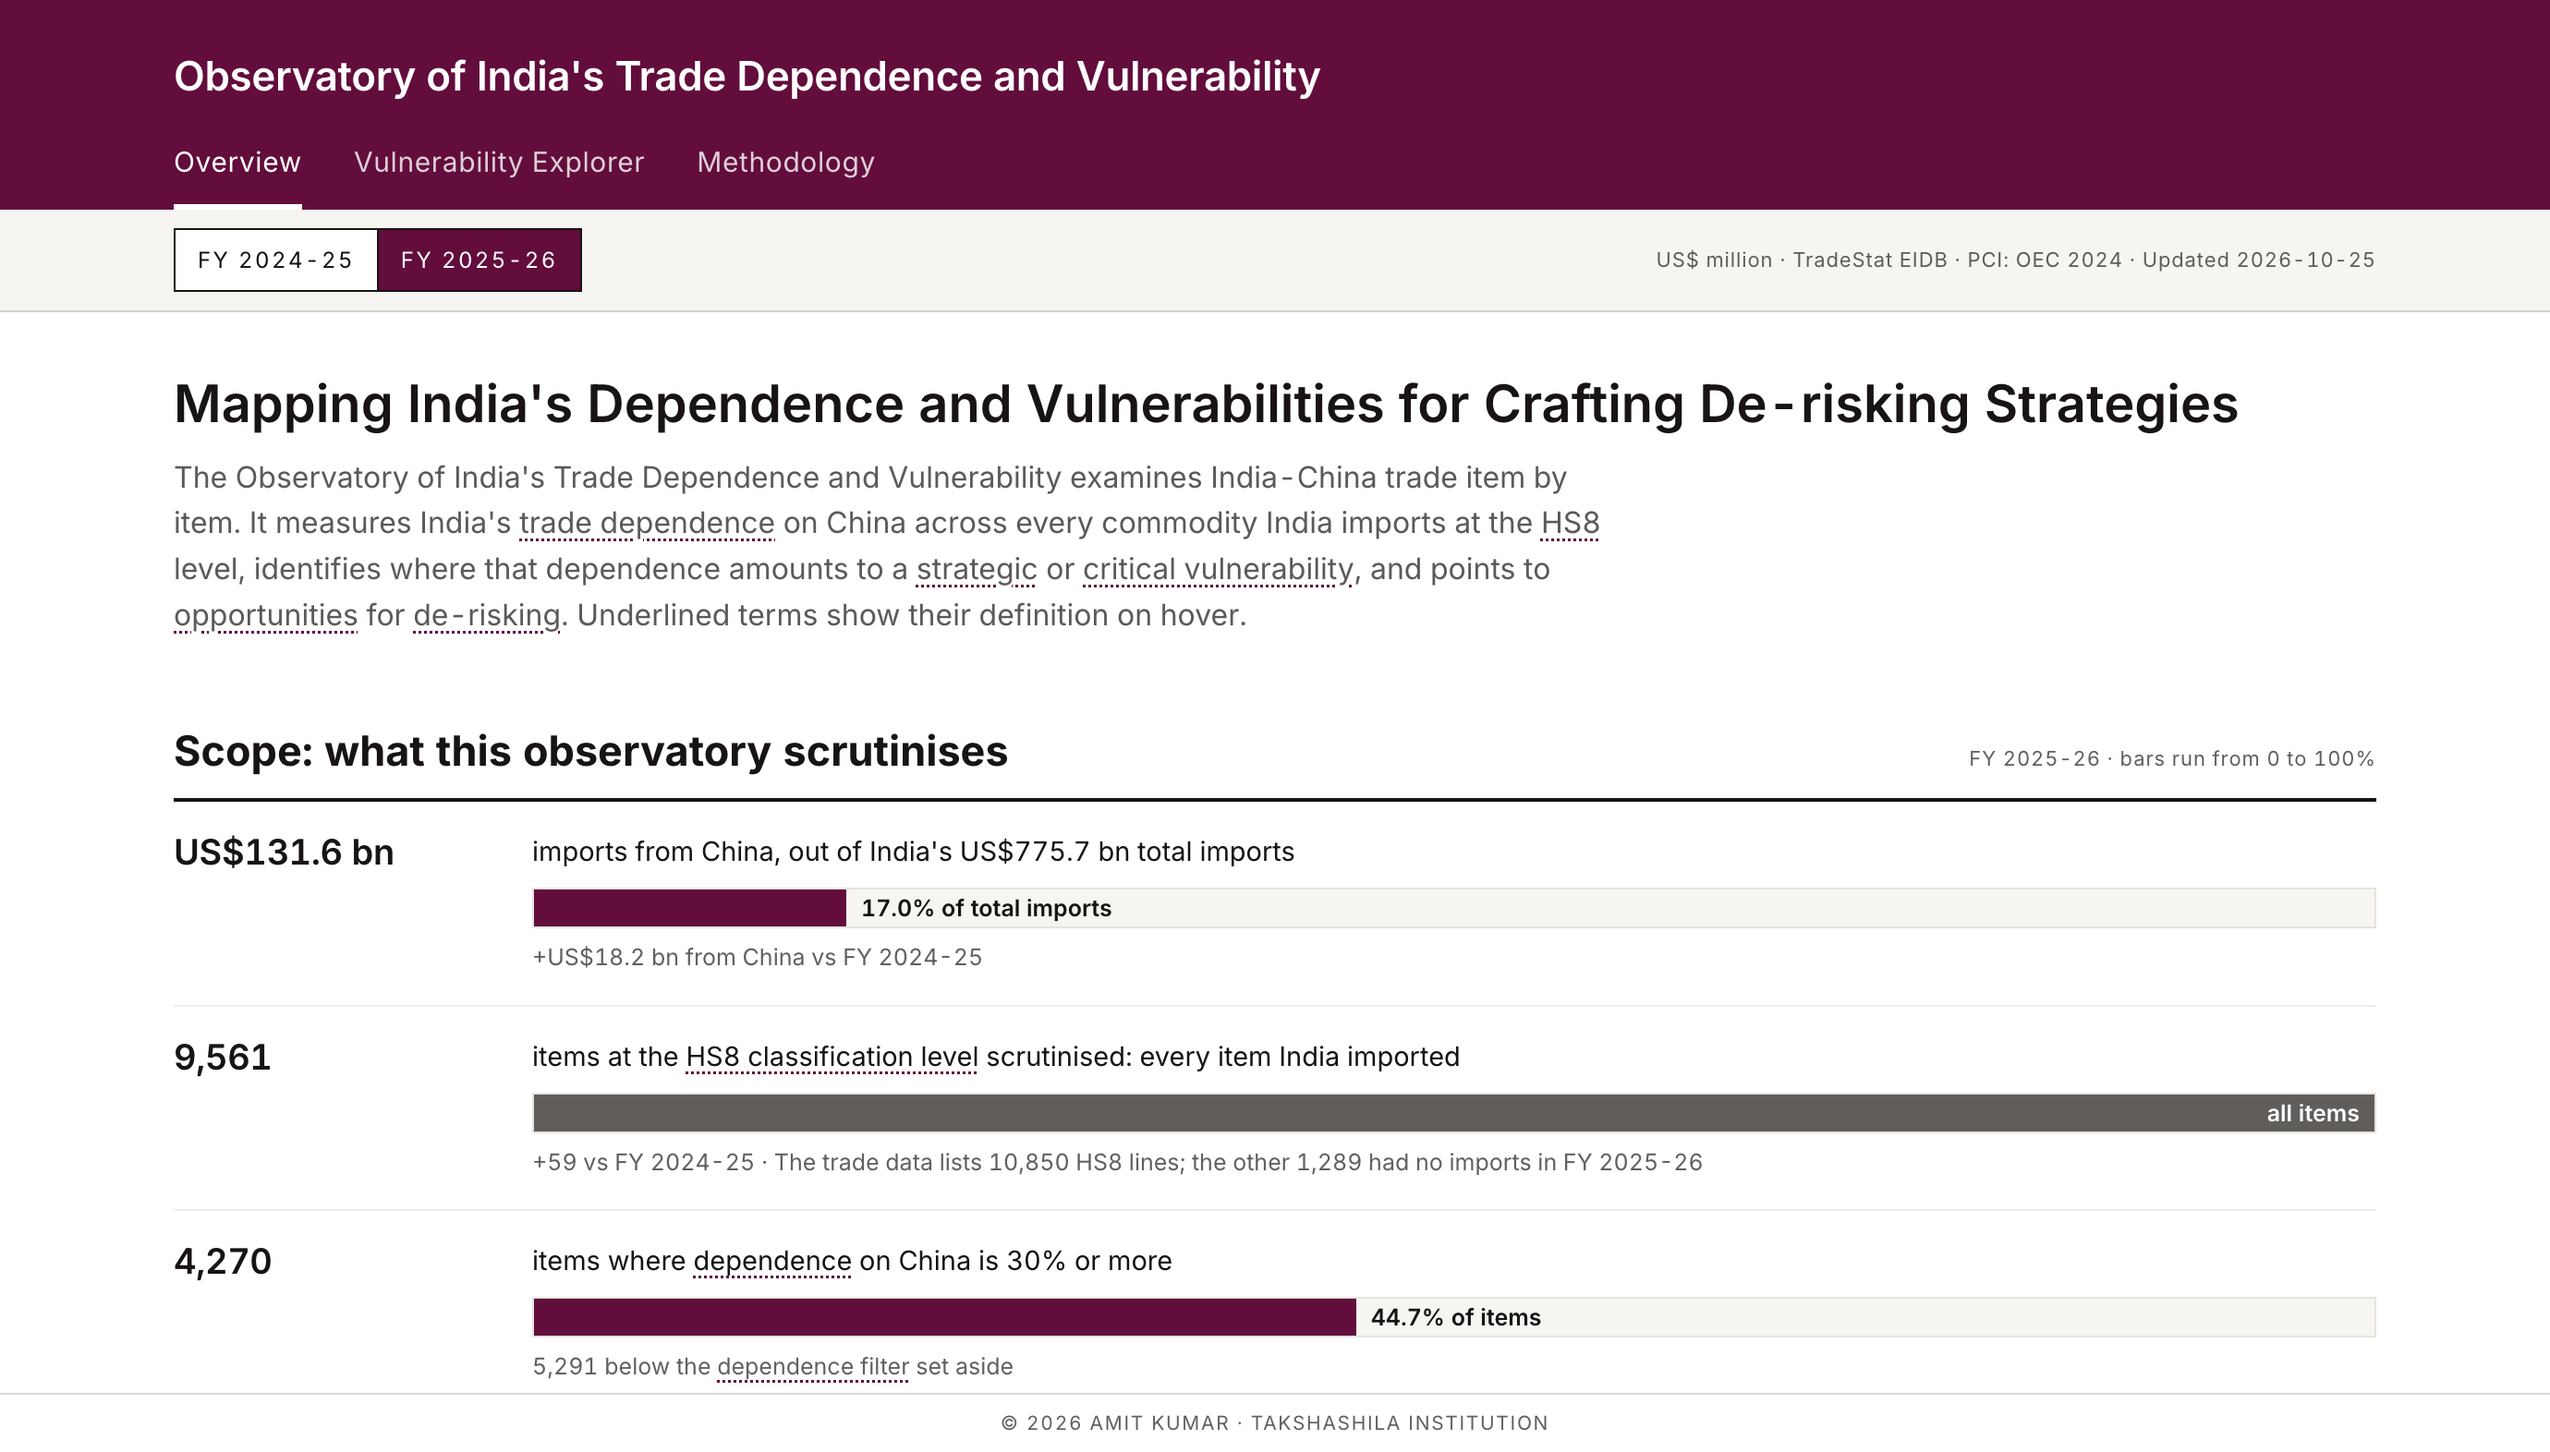
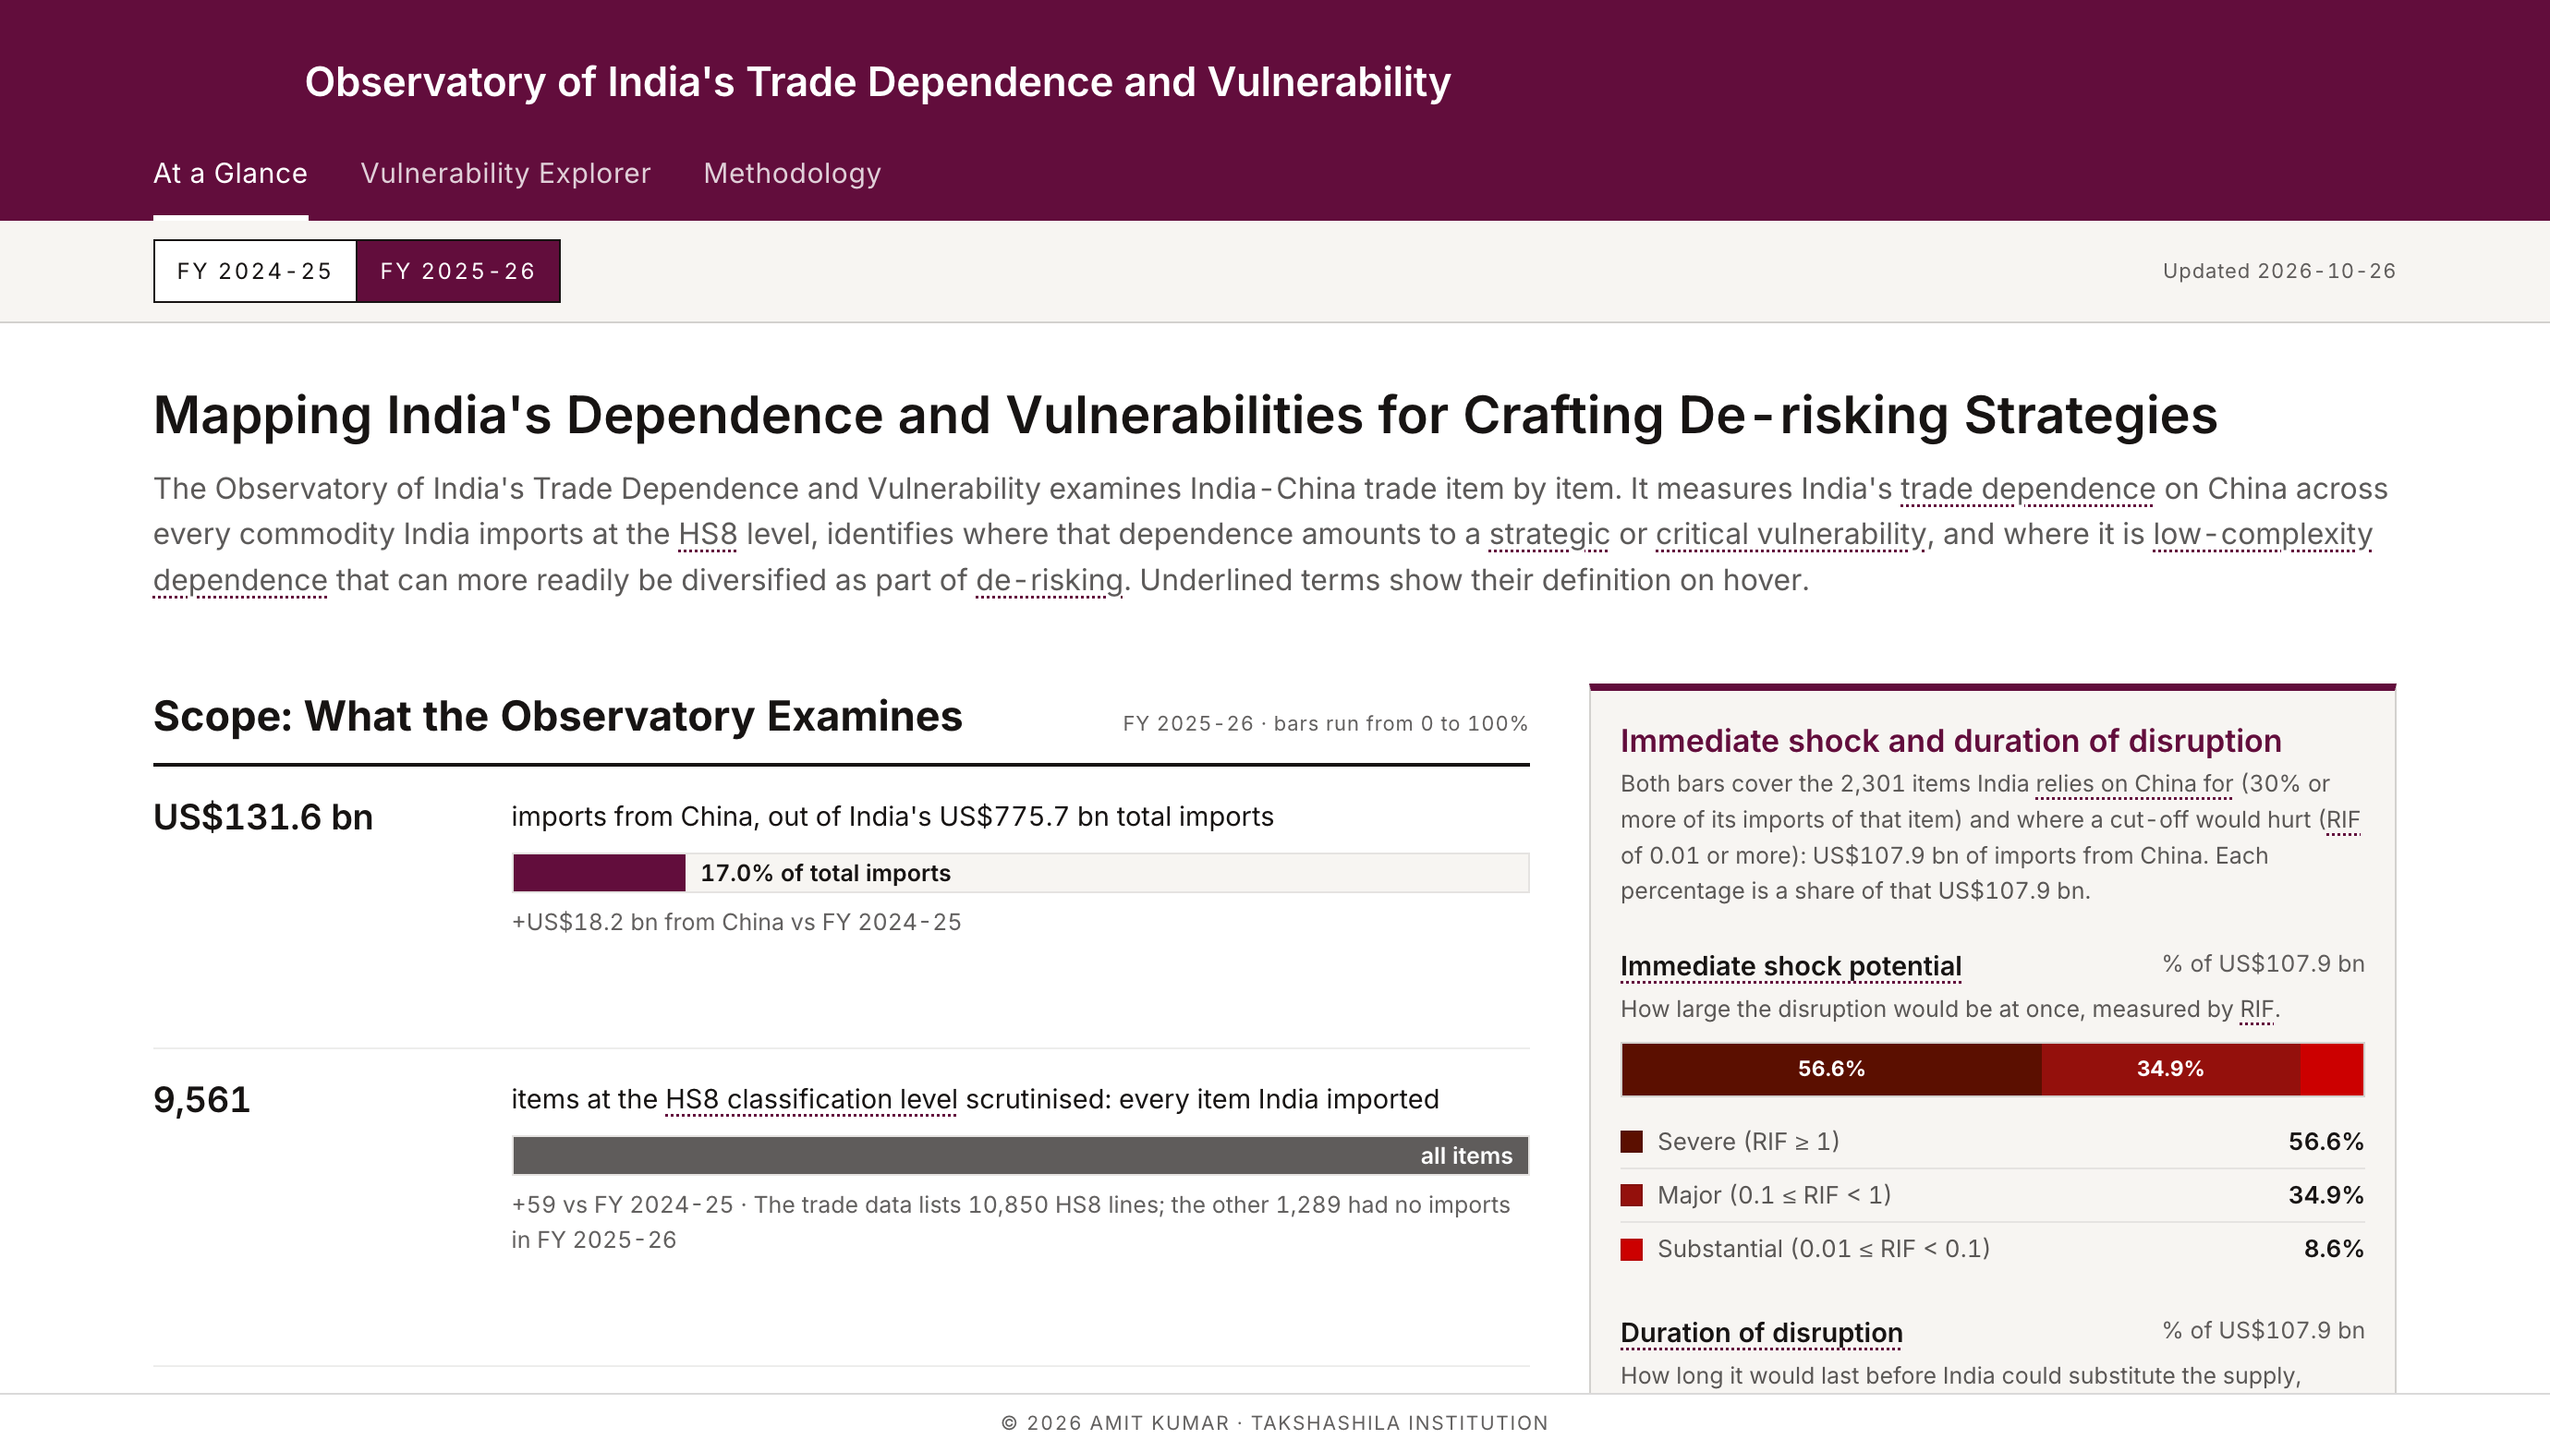
Observatory: one-line side-box key, homepage card text and thumbnail
- Side-box key on At a Glance: one item per row, percentage right-aligned on the label's line
- Homepage card: "shows where supply can more readily be diversified" replaces the domestic-production wording
- Fresh card thumbnail of the current At a Glance page

diff --git a/observatory-of-indias-trade-dependence-and-vulnerability/index.html b/observatory-of-indias-trade-dependence-and-vulnerability/index.html
@@ -340,8 +340,12 @@ table.matrix.static td { font-size: 12px; font-weight: 500; line-height: 1.3; he
 .ov-side .side-box h2 { font-size: 17px; }
 .ov-side .side-box h3 { font-size: 14.5px; margin-top: 20px; }
 .ov-side .stack { margin-top: 8px; }
-.ov-side .legend { display: grid; grid-template-columns: 1fr 1fr; gap: 4px 16px; font-size: 12.5px; }
-.ov-side .legend > span { min-width: 0; }
+/* Side-box key: one item per row, percentage right-aligned on the same line as its label */
+.ov-side .legend { display: block; margin-top: 10px; font-size: 13px; }
+.ov-side .legend > span { display: grid; grid-template-columns: 12px minmax(0, 1fr) auto; column-gap: 8px; align-items: center; padding: 4px 0; border-bottom: 1px solid var(--ink-10); }
+.ov-side .legend > span:last-child { border-bottom: 0; }
+.ov-side .legend i { margin: 0; }
+.ov-side .legend b { font-weight: 600; text-align: right; font-variant-numeric: tabular-nums; white-space: nowrap; }
 @media (max-width: 1100px) { .ov-layout { grid-template-columns: 1fr; } }
 .ex-layout { display: grid; grid-template-columns: minmax(0, 1fr) 280px; gap: 28px; align-items: start; }
 .ex-main { min-width: 0; }
@@ -758,7 +762,7 @@ function shareBar(parts, total, label, minLabel = 4) {
     const ink = LIGHT.includes(x.fill) ? 'var(--ink)' : '#fff';
     return `<span style="width:${w}%;background:${x.fill};color:${ink}${x.fill === '#ffffff' ? ';outline:1px dashed rgba(23,20,19,0.5);outline-offset:-1px' : ''}" data-tip="${esc(x.label)}" data-pct="${pct(w)}" data-val="${usd(x.v)}">${w >= minLabel ? pct(w) : ''}</span>`;
   }).join('');
-  const legend = parts.map(x => `<span><i style="background:${x.fill}${x.fill === '#ffffff' ? ';border:1px dashed rgba(23,20,19,0.5)' : ''}"></i>${esc(x.label)} <b>${pct(x.v / total * 100)}</b></span>`).join('');
+  const legend = parts.map(x => `<span><i style="background:${x.fill}${x.fill === '#ffffff' ? ';border:1px dashed rgba(23,20,19,0.5)' : ''}"></i><span>${esc(x.label)}</span> <b>${pct(x.v / total * 100)}</b></span>`).join('');
   return `<div class="stack" role="img" aria-label="${esc(label)}">${segs}</div><div class="legend">${legend}</div>`;
 }
 // Hover (or tap) any strip of a share bar to see its figures beside the cursor

diff --git a/index.html b/index.html
@@ -280,7 +280,7 @@
                         </div>
                         <div class="dashboard-card-body">
                             <h3 class="dashboard-title">Observatory of India's Trade Dependence and Vulnerability</h3>
-                            <p class="dashboard-desc">An item-by-item map of India-China trade. It measures India's trade dependence on China across every HS8 import, identifies strategic and critical vulnerabilities using the RIF-PCI scale and the SCV framework, and points to opportunities for de-risking through diversification, including domestic production.</p>
+                            <p class="dashboard-desc">An item-by-item map of India-China trade. It measures India's trade dependence on China across every HS8 import, identifies strategic and critical vulnerabilities using the RIF-PCI scale and the SCV framework, and shows where supply can more readily be diversified.</p>
                             <div class="dashboard-tags">
                                 <span class="dashboard-tag">China</span>
                                 <span class="dashboard-tag">Trade Dependence</span>
